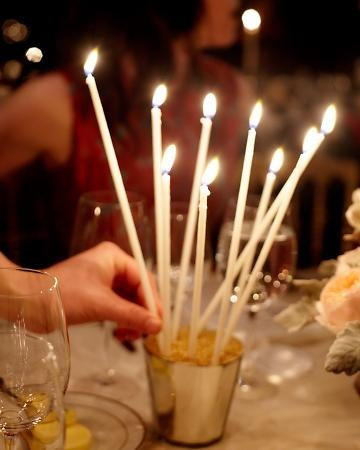
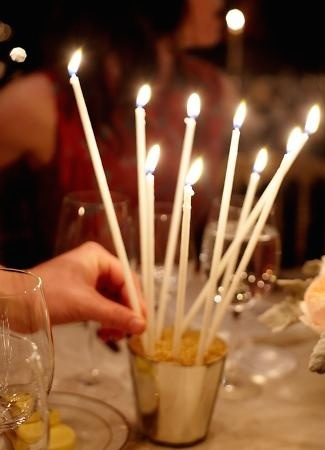
More images on Reception, centering front page, dropping menu

diff --git a/wedding/index.html b/wedding/index.html
@@ -13,10 +13,10 @@ layout: default
       </div>
     </div>
     <div class="row">
-      <div class="col-md-5 hidden-xs hidden-sm">
+      <div class="col-md-4 hidden-xs hidden-sm">
         <img class="wedding-event-image" src="{{ site.baseurl }}/images/flowers.jpeg">
       </div>
-      <div class="col-md-7">
+      <div class="col-md-4">
         <div class="wedding-event-date">Monday 10th August 2015<br>4.30PM until late<br></div>
         <div class="wedding-event-attire">Attire: Cocktail</div><br>
         <address class="wedding-event-address">
@@ -24,9 +24,11 @@ layout: default
           297 Shore Rd<br>
           Chatham, MA 02633<br>
           United States<br>
-          <abbr title="Phone">P:</abbr>+1.508.945.0096
         </address><br>
         <div class="wedding-event-description">The ceremony will begin at 4.30pm on the beach beside The Boat House, followed by cocktail hour, dinner and dancing under the stars.</div>
+      </div>
+      <div class="col-md-4 hidden-xs hidden-sm">
+        <img class="wedding-event-image" src="{{ site.baseurl }}/images/candles.jpg">
       </div>
     </div>
   </div>

diff --git a/index.html b/index.html
@@ -3,16 +3,15 @@ layout: default
 header: true
 ---
 
-<div class="row header">
-  <img src="{{ site.baseurl }}/images/header.png" class="center-block img-responsive" alt="Becky and Luke">
-</div>
-
-<section>
-  <div class="container">
-    <div class="row">
-      <div class="col-md-12 section-header">
-        <h2>Becky &amp; Luke are getting married!<br><small><em>August 10, 2015 - Chatham, MA</em></small></h2>
-      </div>
+<div class="container">
+  <div class="row header">
+    <div class="col-md-12">
+      <img src="{{ site.baseurl }}/images/header.png" class="center-block img-responsive" alt="Becky and Luke">
     </div>
   </div>
-</section>
+  <div class="row">
+    <div class="col-md-12 section-header">
+      <h2>Becky &amp; Luke<br><small><em>August 10, 2015 - Chatham, MA</em></small></h2>
+    </div>
+  </div>
+</div>

diff --git a/css/style.scss b/css/style.scss
@@ -29,7 +29,7 @@ body {
 }
 
 .header {
-  padding-top: 20px;
+  padding-top: 80px;
 }
 
 .anchor {
@@ -87,6 +87,7 @@ section {
 @media (min-width: 768px){
     .navbar-nav {
         margin: 0 auto;
+        padding-top: 10px;
         display: table;
         table-layout: auto;
         float: none;
